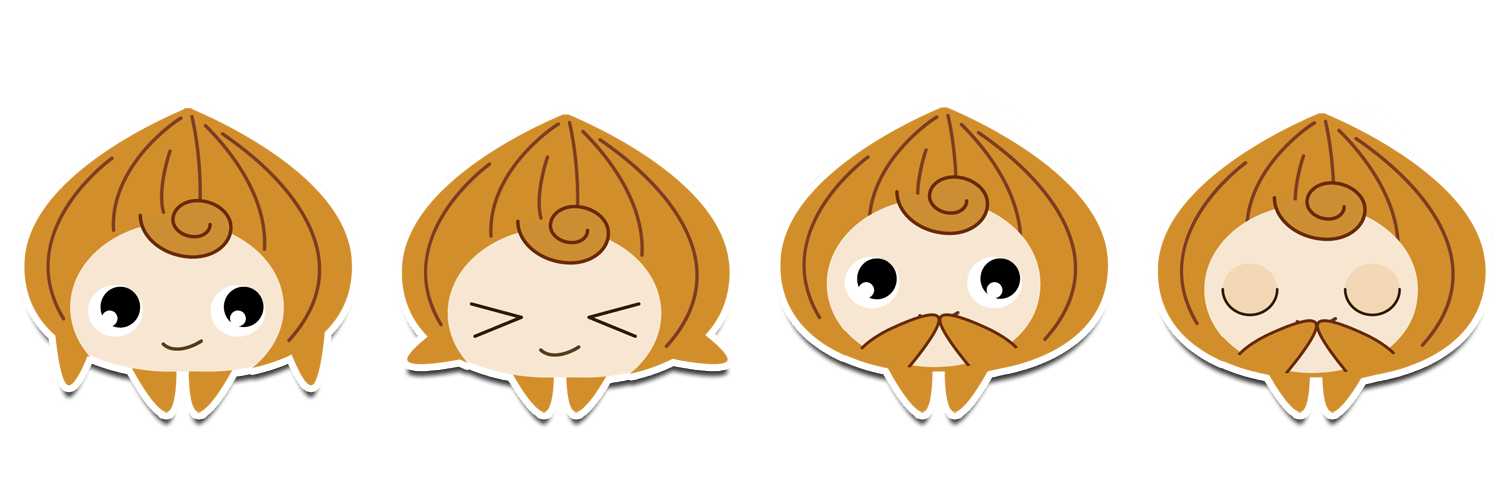
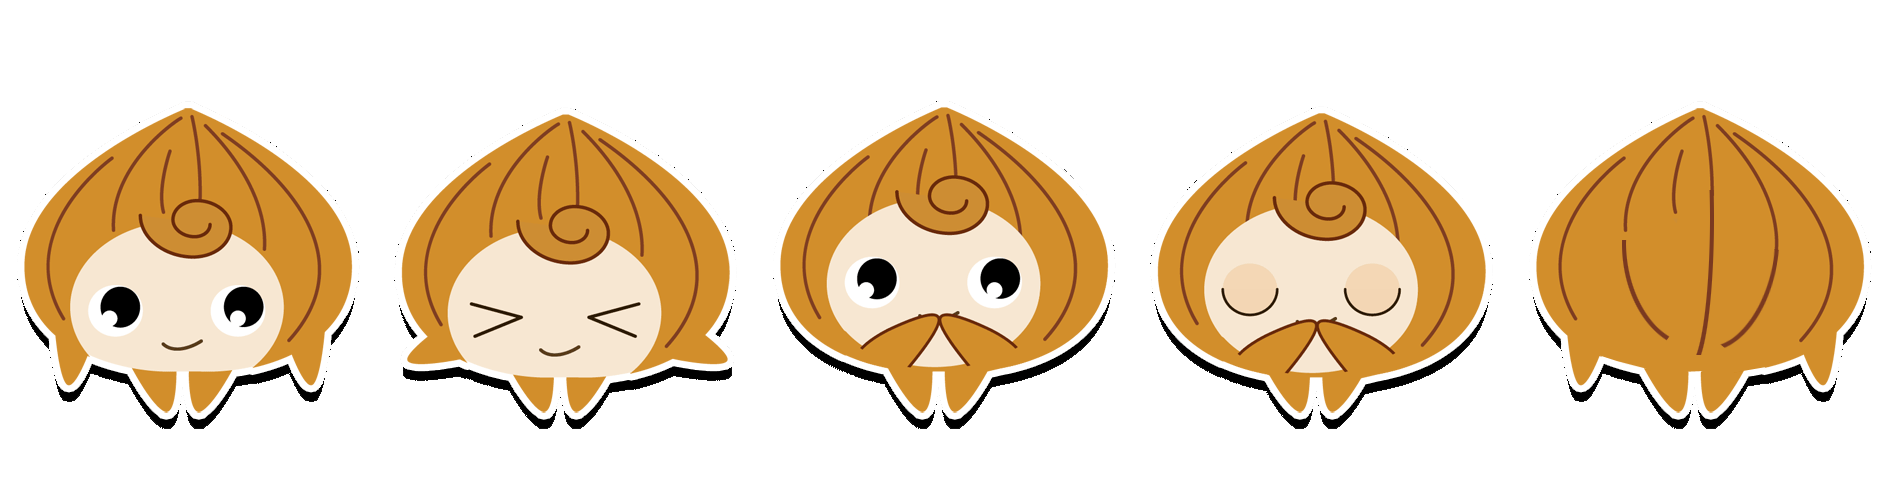
応援ポーズ素材変更
ただ、素材のα値がなくなっているのであとで差し替える

diff --git a/www/GohanItadaki.js b/www/GohanItadaki.js
@@ -72,7 +72,7 @@ var SceenGohanItadaki = function() {
 		{src:"k_sak_c.png",	msg1:"g_ita_txt_01_b.png",	msg2:"g_sup_txt_02.png",	msg3:"g_sup_txt_05.png",	msg4:"g_sup_txt_07.png"	},
 	];
 	var scale = 1;
-	var chara = new DivSprite(1512/4,490);
+	var chara = new DivSprite(1890/5,490);
 	chara.src = "img/00_common/" + charaData[gohanChara].src;
 	chara_x=463; chara_y=489;
 	chara.x=chara_x; chara.y=chara_y; chara.z=2;
